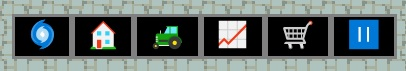
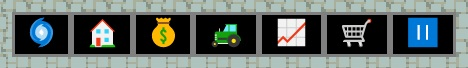
Added Move-to-Bank-Qukckbutton

diff --git a/SRC/helperFunctions.10.js b/SRC/helperFunctions.10.js
@@ -26,6 +26,9 @@ function addButtons() {
 	add_bottom_button("move2Main", "🏠", () => {
 		smart_move({ to: "main" });
 	});
+	add_bottom_button("move2Bank", "💰", () => {
+		smart_move({ to: "bank" });
+	});
 	add_bottom_button("move2Farm", "🚜", () => {
 		getFarmingSpot(farmMonsterType, "move");
 	});
